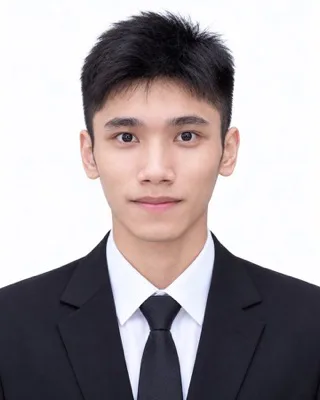
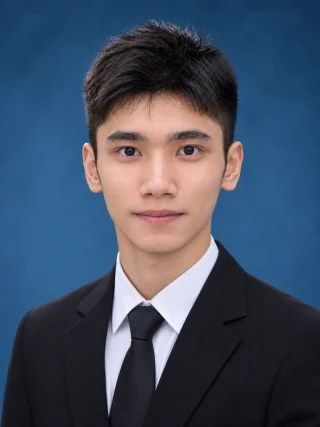
Update Wenjing Yu member portrait

diff --git a/members.html b/members.html
@@ -80,7 +80,7 @@
                         </div>
                     </article>
                     <article class="members-card">
-                        <a class="member-photo" href="assets/members/full/余文敬.jpg?v=20261020-1" data-member-photo><img src="assets/members/thumb/余文敬.webp?v=20261020-1" alt="余文敬的照片" loading="lazy" decoding="async" width="320" height="400"></a>
+                        <a class="member-photo" href="assets/members/full/余文敬.jpg?v=20261125-1" data-member-photo><img src="assets/members/thumb/余文敬.webp?v=20261125-1" alt="余文敬的照片" loading="lazy" decoding="async" width="320" height="427"></a>
                         <div class="members-card-info">
                             <h4>余文敬</h4>
                             <p class="members-motto">“像建设新中国一样建设自己”</p>
